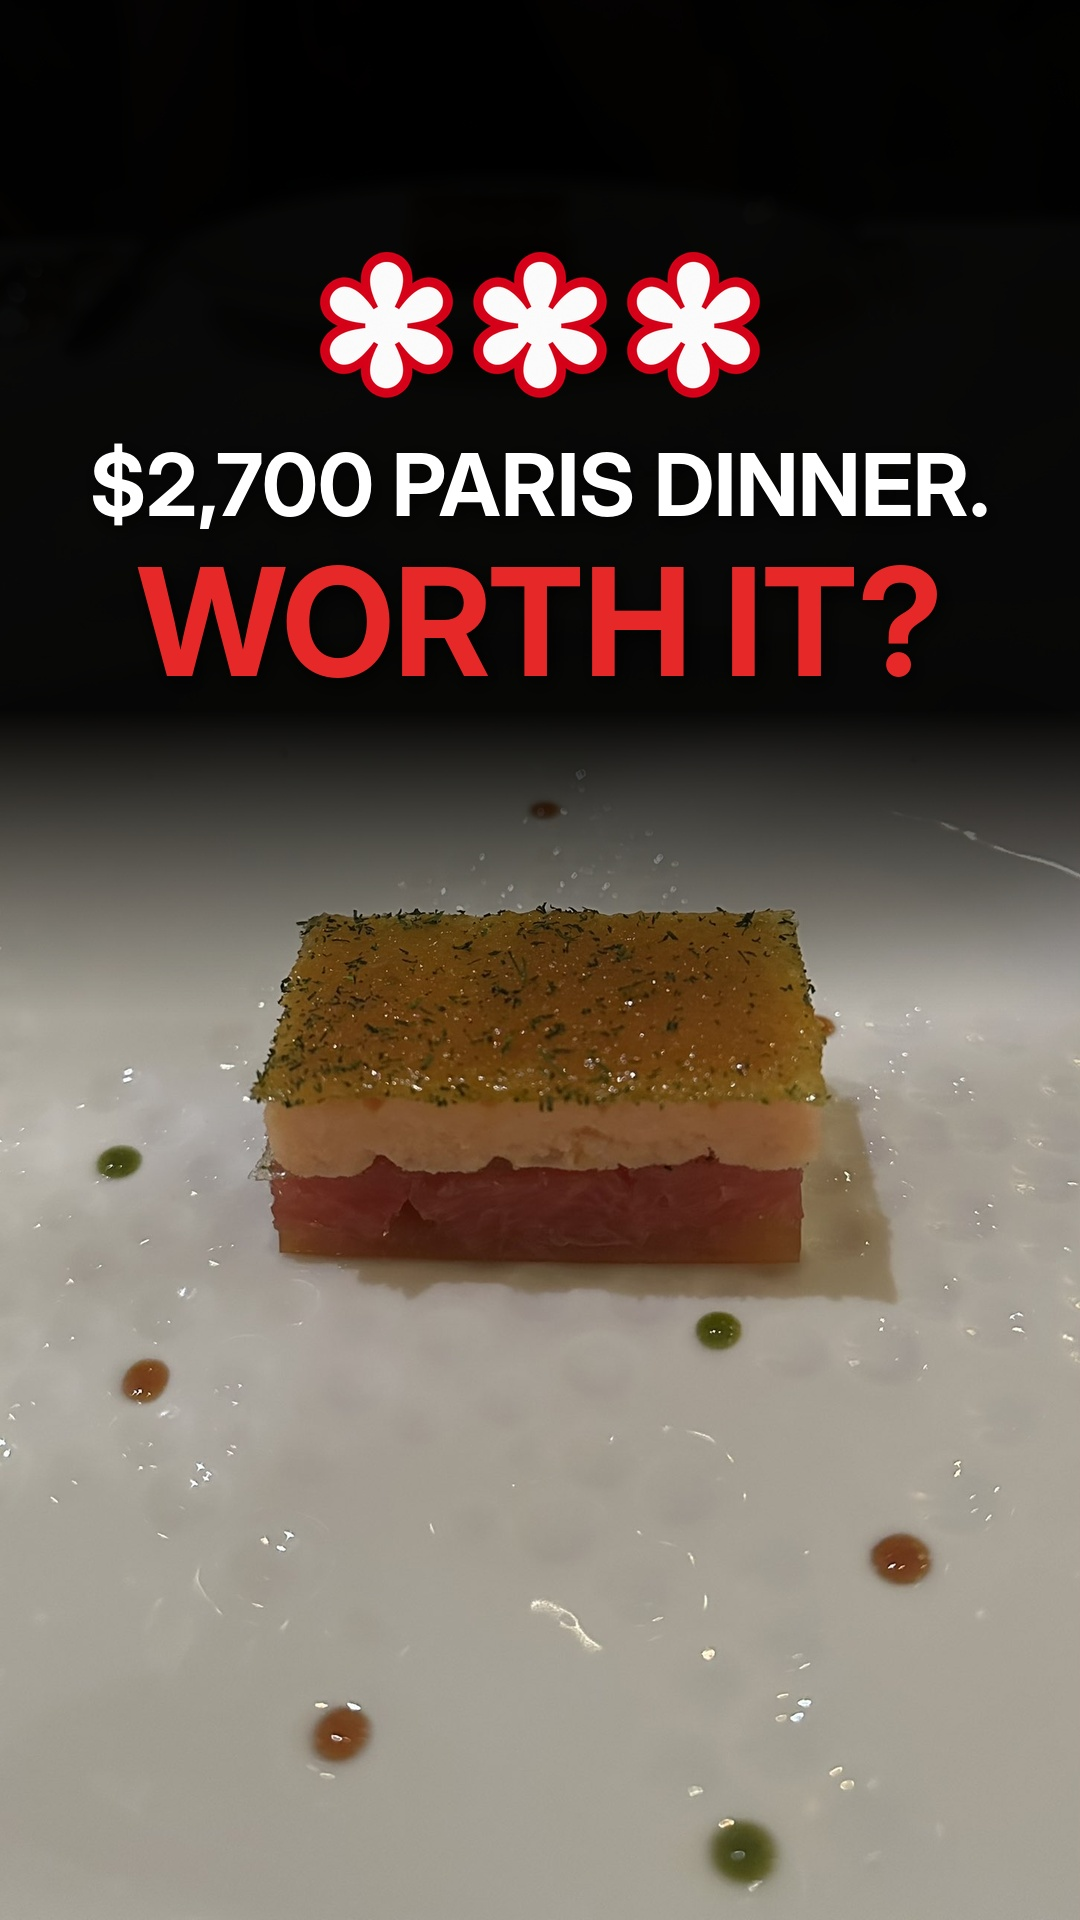
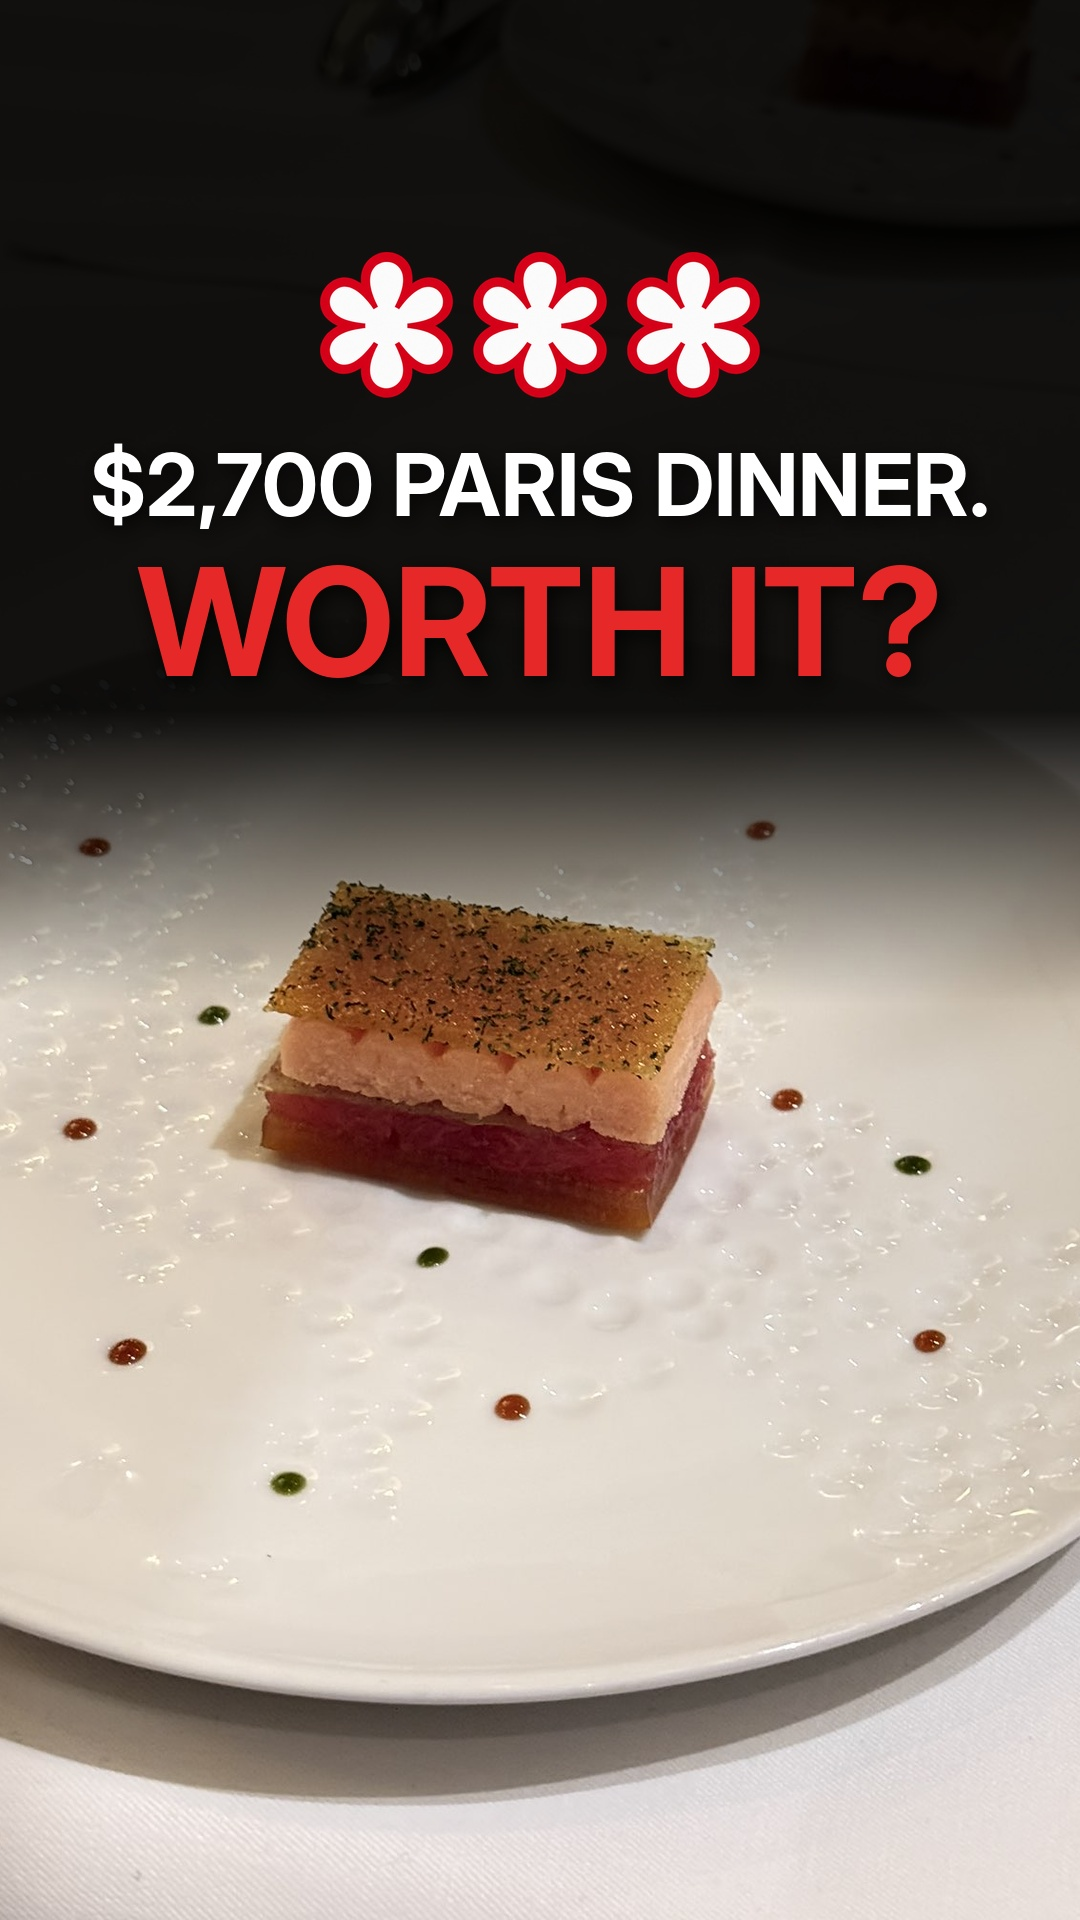
Le Cinq: better grapefruit cover option
Claude-Session: https://claude.ai/code/session_012sBz56Zx9to2cMzoH7bxCs

diff --git a/instagram/covers.md b/instagram/covers.md
@@ -107,3 +107,6 @@ Influencer Marketing Hub; Meta's own docs not checked):
   `alternates/le-cinq-room-vs-waffle.jpg`). Grapefruit option (user named the layered dish:
   grapefruit three ways): `alternates/09-le-cinq-cover-grapefruit.jpg`, top darkened
   near-black (SHADE=top SHADE_MAX=245) so the person at the top is hidden. Not used: and the amuse-bouche tray (busy, bright).
+- #9 grapefruit option redone 2026-11-28 from the user's angled shot (IMG_6726:
+  no person in frame; SHADE=top SHADE_MAX=235 CENTER_X=0.4). Three-shot test:
+  `alternates/le-cinq-grapefruit-3-shots.jpg`.
